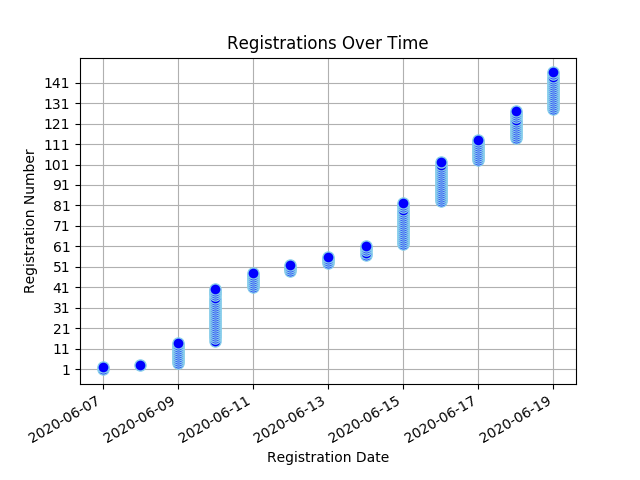
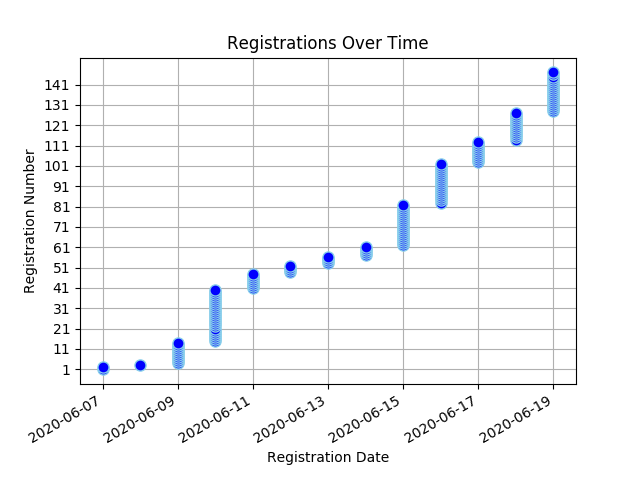
Registree stats backup on Fri Jun 19 14:06:27 SAST 2020

diff --git a/content/virtual_conf_stats/_index.md b/content/virtual_conf_stats/_index.md
@@ -16,7 +16,7 @@ draft: false
 </head>
 <body>
 <h1 style="color: #000000;">Virtual Convention Registration Stats</h1>
-<ul><li><strong>Number of Registrees</strong>: 146</li>
+<ul><li><strong>Number of Registrees</strong>: 147</li>
 </ul><a href="/docs/virtual_convention_stats.csv">Download registration details here</a>
 <h2>Registrees</h2>
 <table id="registreeTable" class="tablesorter" border="1" padding=1>
@@ -163,6 +163,7 @@ Club
 <tr><td>Van der Schyf, Yolandi</td><td>Midrand</td></tr>
 <tr><td>van Heerden, Sandy</td><td>WILRO PARK</td></tr>
 <tr><td>van Heerden, Sydney</td><td>WILRO PARK</td></tr>
+<tr><td>van Rensburg, Johan</td><td>Windhoek Lions Club</td></tr>
 <tr><td>Van Wyk, Edith</td><td>Kuilsriver</td></tr>
 <tr><td>van Wyk, Kim</td><td>North Durban</td></tr>
 <tr><td>van Wyk, Lindie</td><td>Pretoria Jakaranda</td></tr>
